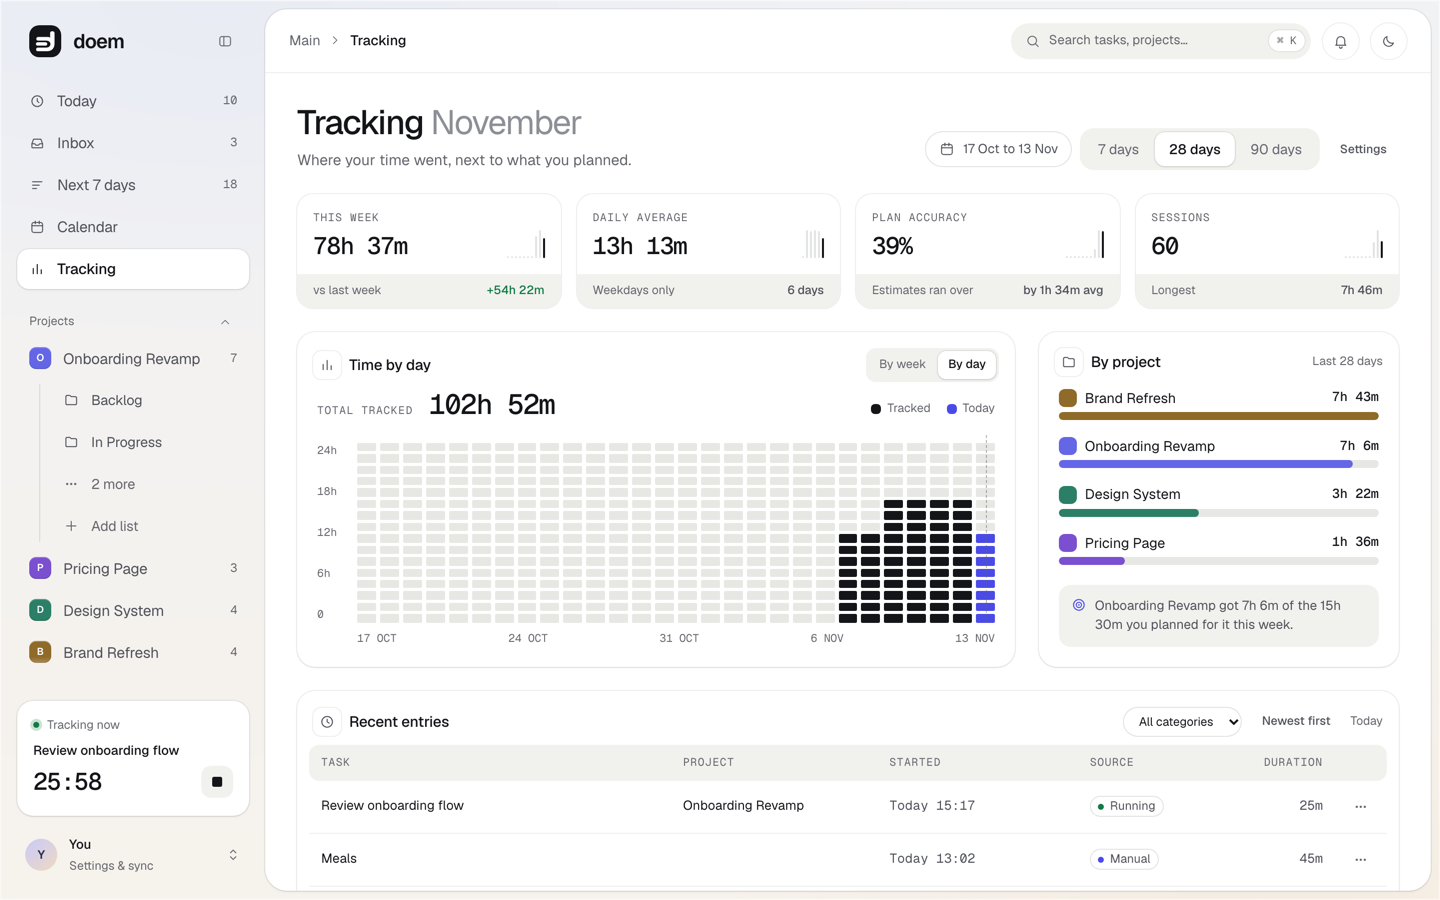
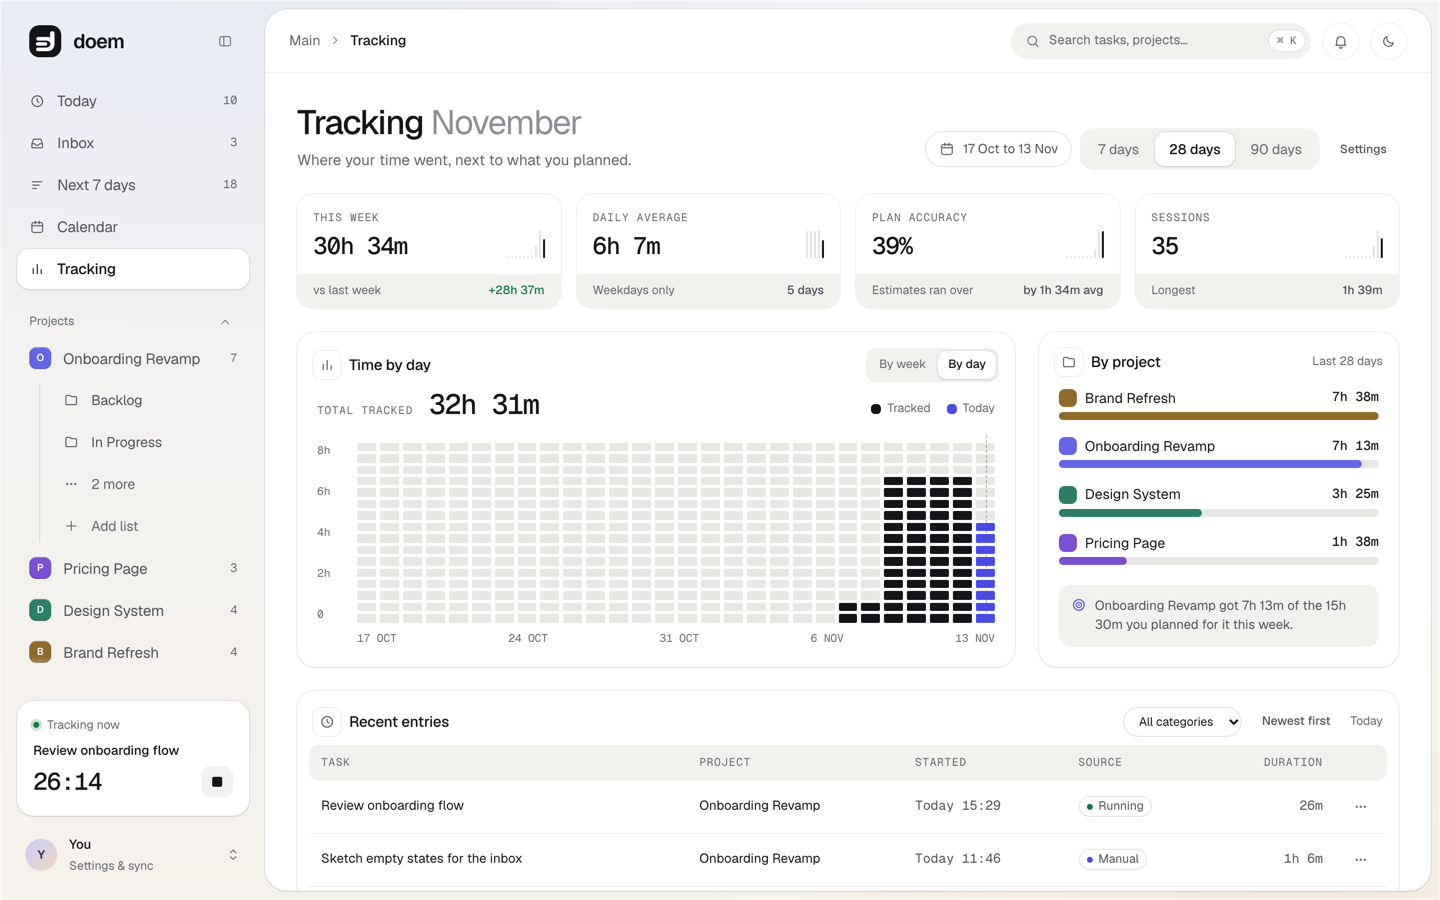
fix: realistic tracking demo data and a faster orphan-server exit
- Demo data no longer logs sleep or evening blocks as tracked time, so the
  Tracking screen reads about 6 hours a weekday instead of 13. Tracking
  screenshots in docs/media and site/media retaken from it.
- The server child checks for a lost parent every second instead of every
  three, keeping the window for two servers on one database shorter than a
  relaunch.
- The smoke test waits up to 6 seconds for that exit before warning.

Packaged 1.0.0: all six smoke cases pass.

diff --git a/scripts/demo-data.ts b/scripts/demo-data.ts
@@ -180,28 +180,23 @@ async function main() {
   type Spec = { task: true } | { cat: string; act?: string };
   const weekday: Array<[number, number, Spec]> = [
     [7 * 60 + 15, 45, { cat: "Health", act: "Exercise" }],
-    [8 * 60 + 30, 20, { cat: "Travel", act: "Commute" }],
     [9 * 60 + 10, 90, { task: true }],
     [10 * 60 + 50, 45, { cat: "Focus Work", act: "Meetings" }],
     [11 * 60 + 45, 70, { task: true }],
-    [13 * 60, 45, { cat: "Health", act: "Meals" }],
     [14 * 60, 100, { task: true }],
     [16 * 60 + 5, 30, { cat: "Focus Work", act: "Email" }],
     [16 * 60 + 45, 30, { cat: "Admin", act: "Planning" }],
-    [19 * 60, 90, { cat: "Personal", act: "Family" }],
   ];
   const weekend: Array<[number, number, Spec]> = [
     [9 * 60, 60, { cat: "Health", act: "Exercise" }],
-    [11 * 60, 90, { cat: "Personal", act: "Leisure" }],
-    [15 * 60, 120, { cat: "Personal", act: "Social" }],
   ];
   let segments = 0;
   let lastEndToday: Date | null = null;
   for (let offset = -6; offset <= 0; offset++) {
     const seed = (offset + 7) * 7;
-    const sleepStart = dayAt(offset - 1, 23, (seed * 3) % 25);
-    const sleepEnd = dayAt(offset, 6, 30 + (seed % 25));
-    const blocks: Array<{ start: Date; end: Date; spec: Spec | "sleep" }> = [{ start: sleepStart, end: sleepEnd, spec: "sleep" }];
+    // About 6h 30m tracked on a weekday and 1h on a weekend day: a believable
+    // working week. No sleep blocks, which made the Tracking totals read 13h a day.
+    const blocks: Array<{ start: Date; end: Date; spec: Spec }> = [];
     const isWeekend = [0, 6].includes(dayAt(offset).getDay());
     (isWeekend ? weekend : weekday).forEach(([startMin, mins, spec], i) => {
       const jitter = ((seed + i * 5) % 9);
@@ -212,12 +207,7 @@ async function main() {
     for (const b of blocks) {
       const limit = offset === 0 ? limitToday : now;
       if (b.end > limit) continue;
-      if (b.spec === "sleep") {
-        await store.addManualSegment({
-          startedAt: b.start.toISOString(), endedAt: b.end.toISOString(),
-          categoryId: cat("Sleep").id, activityId: act("Sleep", "Sleep").id,
-        });
-      } else if ("task" in b.spec) {
+      if ("task" in b.spec) {
         const task = workTasks[taskCursor++ % workTasks.length];
         await store.addManualSegment({ startedAt: b.start.toISOString(), endedAt: b.end.toISOString(), taskId: task.id });
       } else {

diff --git a/electron/child-bootstrap.js b/electron/child-bootstrap.js
@@ -26,6 +26,7 @@ if (process.platform === "darwin") {
 // orphan left running this way silently corrupts the next launch's database
 // instead of merely failing to start. Polling ppid and exiting the moment
 // it becomes 1 bounds how long an orphan can live to one tick of this timer.
+// One second keeps that window shorter than a person can relaunch the app.
 setInterval(() => {
   if (process.ppid === 1) process.exit(0);
-}, 3000).unref();
+}, 1000).unref();
